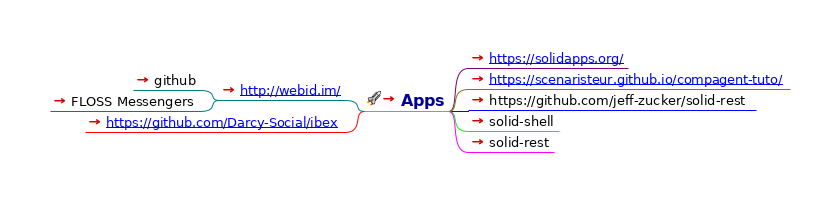
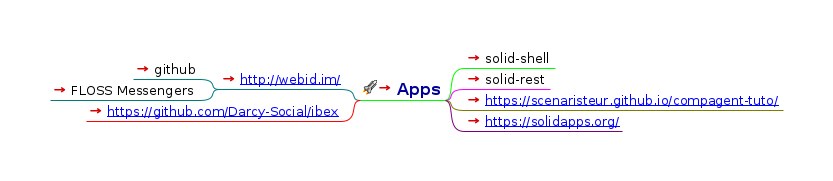
clean up apps

Changed region(s): [[0.0624, 0.2486, 0.9364, 0.7735]]

diff --git a/index.html b/index.html
@@ -23,30 +23,30 @@
                    };
                };
           
-          --></script></head><body><h1>solid</h1><div style="width:96%;  padding:2%;  margin-bottom:10px;  border: 0px;  text-align:center;  vertical-align:center;"><img src="index.html_files/image.png" style="margin-bottom:10px; &#9;border: 0px; &#9;text-align:center; &#9;vertical-align:center;" alt="Imagemap" usemap="#fm_imagemap" /></div><map name="fm_imagemap" id="fm_imagemap"><area shape="rect" href="../tech/index.html" alt="solid" title="solid" coords="420,196,566,239" />
-<area shape="rect" href="apps/index.html" alt="Apps" title="Apps" coords="465,51,534,71" />
-<area shape="rect" href="databrowser/index.html" alt="databrowser" title="databrowser" coords="553,50,661,68" />
-<area shape="rect" href="spec/index.html" alt="spec" title="spec" coords="585,176,647,195" />
-<area shape="rect" href="#FMID_1810859973FM" alt="Tools" title="Tools" coords="470,321,541,341" />
-<area shape="rect" href="https://github.com/solid/data-kitchen" alt="Data Kitchen" title="Data Kitchen" coords="560,299,670,317" />
-<area shape="rect" href="https://github.com/jeff-zucker/data-kitchen" alt="browser FS Fork" title="browser FS Fork" coords="689,289,820,307" />
-<area shape="rect" href="https://github.com/jeff-zucker/data-kitchen/blob/master/README.jz.md#these-things-currenlty-work-using-the-databrowser-in-file-and-app-spaces" alt="browser FS notes" title="browser FS notes" coords="689,310,828,328" />
-<area shape="rect" href="https://github.com/jvilk/BrowserFS" alt="BrowserFS" title="BrowserFS" coords="560,333,654,351" />
-<area shape="rect" href="https://github.com/jeff-zucker/solid-rest/tree/browserFS" alt="solid rest" title="solid rest" coords="673,331,758,349" />
-<area shape="rect" href="https://github.com/fuse-friends/fuse-native" alt="Fuse library" title="Fuse library" coords="560,354,662,372" />
-<area shape="rect" href="#FMID_777477932FM" alt="Links" title="Links" coords="331,207,401,227" />
-<area shape="rect" href="https://webmaps.io/" alt="Made with  using webmaps.io" title="Made with  using webmaps.io" coords="50,140,312,165" />
-<area shape="rect" href="https://solid.mit.edu" alt="MIT" title="MIT" coords="264,168,312,186" />
-<area shape="rect" href="#FMID_1604622862FM" alt="Specs" title="Specs" coords="269,191,312,209" />
-<area shape="rect" href="https://www.w3.org/TR/ldn/" alt="Linked Data Notifications" title="Linked Data Notifications" coords="58,189,250,207" />
-<area shape="rect" href="https://design.inrupt.com/atomic-core/?cat=Core#Colors" alt="Colors" title="Colors" coords="246,222,312,240" />
-<area shape="rect" href="#FMID_1864362129FM" alt="#7C4DFF" title="#7C4DFF" coords="160,212,227,230" />
-<area shape="rect" href="#FMID_1993946970FM" alt="royal lavendar" title="royal lavendar" coords="127,233,227,251" />
-<area shape="rect" href="issues/index.html" alt="issues" title="issues" coords="247,254,312,272" />
-<area shape="rect" href="https://www.w3.org/wiki/Socialwg/2015-03-18-minutes" alt="history" title="history" coords="242,275,312,293" />
+          --></script></head><body><h1>solid</h1><div style="width:96%;  padding:2%;  margin-bottom:10px;  border: 0px;  text-align:center;  vertical-align:center;"><img src="index.html_files/image.png" style="margin-bottom:10px; &#9;border: 0px; &#9;text-align:center; &#9;vertical-align:center;" alt="Imagemap" usemap="#fm_imagemap" /></div><map name="fm_imagemap" id="fm_imagemap"><area shape="rect" href="../tech/index.html" alt="solid" title="solid" coords="424,196,570,239" />
+<area shape="rect" href="apps/index.html" alt="Apps" title="Apps" coords="469,51,538,71" />
+<area shape="rect" href="databrowser/index.html" alt="databrowser" title="databrowser" coords="557,50,665,68" />
+<area shape="rect" href="spec/index.html" alt="spec" title="spec" coords="605,196,667,215" />
+<area shape="rect" href="#FMID_1810859973FM" alt="Tools" title="Tools" coords="474,341,546,361" />
+<area shape="rect" href="https://github.com/solid/data-kitchen" alt="Data Kitchen" title="Data Kitchen" coords="565,319,675,337" />
+<area shape="rect" href="https://github.com/jeff-zucker/data-kitchen" alt="browser FS Fork" title="browser FS Fork" coords="694,309,825,327" />
+<area shape="rect" href="https://github.com/jeff-zucker/data-kitchen/blob/master/README.jz.md#these-things-currenlty-work-using-the-databrowser-in-file-and-app-spaces" alt="browser FS notes" title="browser FS notes" coords="694,330,833,348" />
+<area shape="rect" href="https://github.com/jvilk/BrowserFS" alt="BrowserFS" title="BrowserFS" coords="565,353,659,371" />
+<area shape="rect" href="https://github.com/jeff-zucker/solid-rest/tree/browserFS" alt="solid rest" title="solid rest" coords="678,351,763,369" />
+<area shape="rect" href="https://github.com/fuse-friends/fuse-native" alt="Fuse library" title="Fuse library" coords="565,374,667,392" />
+<area shape="rect" href="#FMID_777477932FM" alt="Links" title="Links" coords="335,207,405,227" />
+<area shape="rect" href="https://webmaps.io/" alt="Made with  using webmaps.io" title="Made with  using webmaps.io" coords="50,140,316,165" />
+<area shape="rect" href="https://solid.mit.edu" alt="MIT" title="MIT" coords="268,168,316,186" />
+<area shape="rect" href="#FMID_1604622862FM" alt="Specs" title="Specs" coords="273,191,316,209" />
+<area shape="rect" href="https://www.w3.org/TR/ldn/" alt="Linked Data Notifications" title="Linked Data Notifications" coords="62,189,254,207" />
+<area shape="rect" href="https://design.inrupt.com/atomic-core/?cat=Core#Colors" alt="Colors" title="Colors" coords="250,222,316,240" />
+<area shape="rect" href="#FMID_1864362129FM" alt="#7C4DFF" title="#7C4DFF" coords="164,212,231,230" />
+<area shape="rect" href="#FMID_1993946970FM" alt="royal lavendar" title="royal lavendar" coords="131,233,231,251" />
+<area shape="rect" href="issues/index.html" alt="issues" title="issues" coords="251,254,316,272" />
+<area shape="rect" href="https://www.w3.org/wiki/Socialwg/2015-03-18-minutes" alt="history" title="history" coords="246,275,316,293" />
 </map>
 
-<div class="node"><img src="index.html_files/hide.png" class="hideshow" alt="hide" onClick="toggle(&quot;N65543&quot;)" id="imgN65543" /><img src="index.html_files/icons/wizard.svg" alt="wizard" /> <a id="FMID_237352286FM" /><div class="nodecontent" style="color:#000000;font-size:150%;"><a href="../tech/index.html">solid</a> <a href="../tech/index.html"><img src="index.html_files/ilink.png" alt="User Link" style="border-width:0" /></a></div><div class="content" id="N65543"><div class="node"><img src="index.html_files/hide.png" class="hideshow" alt="hide" onClick="toggle(&quot;N66445&quot;)" id="imgN66445" /><a id="FMID_1861071781FM" /><div class="nodecontent" style="color:#000099;font-size:100%;font-weight:bold;"><a href="apps/index.html">Apps</a> <a href="apps/index.html"><img src="index.html_files/ilink.png" alt="User Link" style="border-width:0" /></a></div><div class="content" id="N66445"><div class="node"><img src="index.html_files/leaf.png" class="hideshow" alt="leaf" /><a id="FMID_589909741FM" /><div class="nodecontent" style="color:#000000;font-size:83%;"><a href="databrowser/index.html">databrowser</a> <a href="databrowser/index.html"><img src="index.html_files/ilink.png" alt="User Link" style="border-width:0" /></a></div></div></div></div><div class="node"><img src="index.html_files/leaf.png" class="hideshow" alt="leaf" /><a id="FMID_45632273FM" /><div class="nodecontent" style="color:#000000;font-size:92%;font-weight:bold;"><a href="spec/index.html">spec</a> <a href="spec/index.html"><img src="index.html_files/ilink.png" alt="User Link" style="border-width:0" /></a></div></div><div class="node"><img src="index.html_files/hide.png" class="hideshow" alt="hide" onClick="toggle(&quot;N66560&quot;)" id="imgN66560" /><img src="index.html_files/icons/executable.svg" alt="executable" /> <a id="FMID_1810859973FM" /><div class="nodecontent" style="color:#666600;font-size:100%;font-weight:bold;">Tools</div><div class="content" id="N66560"><div class="node"><img src="index.html_files/hide.png" class="hideshow" alt="hide" onClick="toggle(&quot;N66603&quot;)" id="imgN66603" /><a id="FMID_464490085FM" /><div class="nodecontent" style="color:#000000;font-size:83%;"><a href="https://github.com/solid/data-kitchen">Data Kitchen</a> <a href="https://github.com/solid/data-kitchen"><img src="index.html_files/ilink.png" alt="User Link" style="border-width:0" /></a></div><div class="content" id="N66603"><div class="node"><img src="index.html_files/leaf.png" class="hideshow" alt="leaf" /><a id="FMID_1249692100FM" /><div class="nodecontent" style="color:#000000;font-size:83%;"><a href="https://github.com/jeff-zucker/data-kitchen">browser FS Fork</a> <a href="https://github.com/jeff-zucker/data-kitchen"><img src="index.html_files/ilink.png" alt="User Link" style="border-width:0" /></a></div></div><div class="node"><img src="index.html_files/leaf.png" class="hideshow" alt="leaf" /><a id="FMID_159496431FM" /><div class="nodecontent" style="color:#000000;font-size:83%;"><a href="https://github.com/jeff-zucker/data-kitchen/blob/master/README.jz.md#these-things-currenlty-work-using-the-databrowser-in-file-and-app-spaces">browser FS notes</a> <a href="https://github.com/jeff-zucker/data-kitchen/blob/master/README.jz.md#these-things-currenlty-work-using-the-databrowser-in-file-and-app-spaces"><img src="index.html_files/ilink.png" alt="User Link" style="border-width:0" /></a></div></div></div></div><div class="node"><img src="index.html_files/hide.png" class="hideshow" alt="hide" onClick="toggle(&quot;N66714&quot;)" id="imgN66714" /><a id="FMID_254470917FM" /><div class="nodecontent" style="color:#000000;font-size:83%;"><a href="https://github.com/jvilk/BrowserFS">BrowserFS</a> <a href="https://github.com/jvilk/BrowserFS"><img src="index.html_files/ilink.png" alt="User Link" style="border-width:0" /></a></div><div class="content" id="N66714"><div class="node"><img src="index.html_files/leaf.png" class="hideshow" alt="leaf" /><a id="FMID_1269514055FM" /><div class="nodecontent" style="color:#000000;font-size:83%;"><a href="https://github.com/jeff-zucker/solid-rest/tree/browserFS">solid rest</a> <a href="https://github.com/jeff-zucker/solid-rest/tree/browserFS"><img src="index.html_files/ilink.png" alt="User Link" style="border-width:0" /></a></div></div></div></div><div class="node"><img src="index.html_files/leaf.png" class="hideshow" alt="leaf" /><a id="FMID_845285837FM" /><div class="nodecontent" style="color:#000000;font-size:83%;"><a href="https://github.com/fuse-friends/fuse-native">Fuse library</a> <a href="https://github.com/fuse-friends/fuse-native"><img src="index.html_files/ilink.png" alt="User Link" style="border-width:0" /></a></div></div></div></div><div class="node"><img src="index.html_files/hide.png" class="hideshow" alt="hide" onClick="toggle(&quot;N66826&quot;)" id="imgN66826" /><img src="index.html_files/icons/attach.svg" alt="attach" /> <a id="FMID_777477932FM" /><div class="nodecontent" style="color:#660000;font-size:100%;font-weight:bold;">Links</div><div class="content" id="N66826"><div class="node"><img src="index.html_files/leaf.png" class="hideshow" alt="leaf" /><a id="FMID_1974475433FM" /><div class="nodecontent" style="color:#000099;font-size:83%;font-weight:bold;"><a href="https://webmaps.io/">
+<div class="node"><img src="index.html_files/hide.png" class="hideshow" alt="hide" onClick="toggle(&quot;N65543&quot;)" id="imgN65543" /><img src="index.html_files/icons/wizard.svg" alt="wizard" /> <a id="FMID_237352286FM" /><div class="nodecontent" style="color:#000000;font-size:150%;"><a href="../tech/index.html">solid</a> <a href="../tech/index.html"><img src="index.html_files/ilink.png" alt="User Link" style="border-width:0" /></a></div><div class="content" id="N65543"><div class="node"><img src="index.html_files/hide.png" class="hideshow" alt="hide" onClick="toggle(&quot;N66445&quot;)" id="imgN66445" /><a id="FMID_1861071781FM" /><div class="nodecontent" style="color:#000099;font-size:100%;font-weight:bold;"><a href="apps/index.html">Apps</a> <a href="apps/index.html"><img src="index.html_files/ilink.png" alt="User Link" style="border-width:0" /></a></div><div class="content" id="N66445"><div class="node"><img src="index.html_files/leaf.png" class="hideshow" alt="leaf" /><a id="FMID_589909741FM" /><div class="nodecontent" style="color:#000000;font-size:83%;"><a href="databrowser/index.html">databrowser</a> <a href="databrowser/index.html"><img src="index.html_files/ilink.png" alt="User Link" style="border-width:0" /></a></div></div></div></div><div class="node"><img src="index.html_files/leaf.png" class="hideshow" alt="leaf" /><a id="FMID_45632273FM" /><div class="nodecontent" style="color:#000000;font-size:92%;font-weight:bold;"><a href="spec/index.html">spec</a> <a href="spec/index.html"><img src="index.html_files/ilink.png" alt="User Link" style="border-width:0" /></a></div></div><div class="node"><img src="index.html_files/hide.png" class="hideshow" alt="hide" onClick="toggle(&quot;N66562&quot;)" id="imgN66562" /><img src="index.html_files/icons/executable.svg" alt="executable" /> <a id="FMID_1810859973FM" /><div class="nodecontent" style="color:#666600;font-size:100%;font-weight:bold;">Tools</div><div class="content" id="N66562"><div class="node"><img src="index.html_files/hide.png" class="hideshow" alt="hide" onClick="toggle(&quot;N66605&quot;)" id="imgN66605" /><a id="FMID_464490085FM" /><div class="nodecontent" style="color:#000000;font-size:83%;"><a href="https://github.com/solid/data-kitchen">Data Kitchen</a> <a href="https://github.com/solid/data-kitchen"><img src="index.html_files/ilink.png" alt="User Link" style="border-width:0" /></a></div><div class="content" id="N66605"><div class="node"><img src="index.html_files/leaf.png" class="hideshow" alt="leaf" /><a id="FMID_1249692100FM" /><div class="nodecontent" style="color:#000000;font-size:83%;"><a href="https://github.com/jeff-zucker/data-kitchen">browser FS Fork</a> <a href="https://github.com/jeff-zucker/data-kitchen"><img src="index.html_files/ilink.png" alt="User Link" style="border-width:0" /></a></div></div><div class="node"><img src="index.html_files/leaf.png" class="hideshow" alt="leaf" /><a id="FMID_159496431FM" /><div class="nodecontent" style="color:#000000;font-size:83%;"><a href="https://github.com/jeff-zucker/data-kitchen/blob/master/README.jz.md#these-things-currenlty-work-using-the-databrowser-in-file-and-app-spaces">browser FS notes</a> <a href="https://github.com/jeff-zucker/data-kitchen/blob/master/README.jz.md#these-things-currenlty-work-using-the-databrowser-in-file-and-app-spaces"><img src="index.html_files/ilink.png" alt="User Link" style="border-width:0" /></a></div></div></div></div><div class="node"><img src="index.html_files/hide.png" class="hideshow" alt="hide" onClick="toggle(&quot;N66716&quot;)" id="imgN66716" /><a id="FMID_254470917FM" /><div class="nodecontent" style="color:#000000;font-size:83%;"><a href="https://github.com/jvilk/BrowserFS">BrowserFS</a> <a href="https://github.com/jvilk/BrowserFS"><img src="index.html_files/ilink.png" alt="User Link" style="border-width:0" /></a></div><div class="content" id="N66716"><div class="node"><img src="index.html_files/leaf.png" class="hideshow" alt="leaf" /><a id="FMID_1269514055FM" /><div class="nodecontent" style="color:#000000;font-size:83%;"><a href="https://github.com/jeff-zucker/solid-rest/tree/browserFS">solid rest</a> <a href="https://github.com/jeff-zucker/solid-rest/tree/browserFS"><img src="index.html_files/ilink.png" alt="User Link" style="border-width:0" /></a></div></div></div></div><div class="node"><img src="index.html_files/leaf.png" class="hideshow" alt="leaf" /><a id="FMID_845285837FM" /><div class="nodecontent" style="color:#000000;font-size:83%;"><a href="https://github.com/fuse-friends/fuse-native">Fuse library</a> <a href="https://github.com/fuse-friends/fuse-native"><img src="index.html_files/ilink.png" alt="User Link" style="border-width:0" /></a></div></div></div></div><div class="node"><img src="index.html_files/hide.png" class="hideshow" alt="hide" onClick="toggle(&quot;N66828&quot;)" id="imgN66828" /><img src="index.html_files/icons/attach.svg" alt="attach" /> <a id="FMID_777477932FM" /><div class="nodecontent" style="color:#660000;font-size:100%;font-weight:bold;">Links</div><div class="content" id="N66828"><div class="node"><img src="index.html_files/leaf.png" class="hideshow" alt="leaf" /><a id="FMID_1974475433FM" /><div class="nodecontent" style="color:#000099;font-size:83%;font-weight:bold;"><a href="https://webmaps.io/">
     Made with <img class="emoji" alt="heart" height="20" width="20" src="https://github.githubassets.com/images/icons/emoji/unicode/2764.png" style="border-top-style: none; border-right-style: none; border-bottom-style: none; border-left-style: none" /> using webmaps.io
-  </a> <a href="https://webmaps.io/"><img src="index.html_files/ilink.png" alt="User Link" style="border-width:0" /></a></div></div><div class="node"><img src="index.html_files/leaf.png" class="hideshow" alt="leaf" /><a id="FMID_671925292FM" /><div class="nodecontent" style="color:#000000;font-size:83%;"><a href="https://solid.mit.edu">MIT</a> <a href="https://solid.mit.edu"><img src="index.html_files/ilink.png" alt="User Link" style="border-width:0" /></a></div></div><div class="node"><img src="index.html_files/hide.png" class="hideshow" alt="hide" onClick="toggle(&quot;N66961&quot;)" id="imgN66961" /><a id="FMID_1604622862FM" /><div class="nodecontent" style="color:#000000;font-size:83%;">Specs</div><div class="content" id="N66961"><div class="node"><img src="index.html_files/leaf.png" class="hideshow" alt="leaf" /><a id="FMID_1990139043FM" /><div class="nodecontent" style="color:#000000;font-size:83%;"><a href="https://www.w3.org/TR/ldn/">Linked Data Notifications</a> <a href="https://www.w3.org/TR/ldn/"><img src="index.html_files/ilink.png" alt="User Link" style="border-width:0" /></a></div></div></div></div><div class="node"><img src="index.html_files/hide.png" class="hideshow" alt="hide" onClick="toggle(&quot;N67034&quot;)" id="imgN67034" /><a id="FMID_960031878FM" /><div class="nodecontent" style="color:#000000;font-size:83%;"><a href="https://design.inrupt.com/atomic-core/?cat=Core#Colors">Colors</a> <a href="https://design.inrupt.com/atomic-core/?cat=Core#Colors"><img src="index.html_files/ilink.png" alt="User Link" style="border-width:0" /></a></div><div class="content" id="N67034"><div class="node"><img src="index.html_files/leaf.png" class="hideshow" alt="leaf" /><a id="FMID_1864362129FM" /><div class="nodecontent" style="color:#000000;font-size:83%;">#7C4DFF</div></div><div class="node"><img src="index.html_files/leaf.png" class="hideshow" alt="leaf" /><a id="FMID_1993946970FM" /><div class="nodecontent" style="color:#000000;font-size:83%;">royal lavendar</div></div></div></div><div class="node"><img src="index.html_files/leaf.png" class="hideshow" alt="leaf" /><a id="FMID_1662681886FM" /><div class="nodecontent" style="color:#000000;font-size:83%;"><a href="issues/index.html">issues</a> <a href="issues/index.html"><img src="index.html_files/ilink.png" alt="User Link" style="border-width:0" /></a></div></div><div class="node"><img src="index.html_files/leaf.png" class="hideshow" alt="leaf" /><a id="FMID_1693475953FM" /><div class="nodecontent" style="color:#000000;font-size:83%;"><a href="https://www.w3.org/wiki/Socialwg/2015-03-18-minutes">history</a> <a href="https://www.w3.org/wiki/Socialwg/2015-03-18-minutes"><img src="index.html_files/ilink.png" alt="User Link" style="border-width:0" /></a></div></div></div></div></div></div>
+  </a> <a href="https://webmaps.io/"><img src="index.html_files/ilink.png" alt="User Link" style="border-width:0" /></a></div></div><div class="node"><img src="index.html_files/leaf.png" class="hideshow" alt="leaf" /><a id="FMID_671925292FM" /><div class="nodecontent" style="color:#000000;font-size:83%;"><a href="https://solid.mit.edu">MIT</a> <a href="https://solid.mit.edu"><img src="index.html_files/ilink.png" alt="User Link" style="border-width:0" /></a></div></div><div class="node"><img src="index.html_files/hide.png" class="hideshow" alt="hide" onClick="toggle(&quot;N66963&quot;)" id="imgN66963" /><a id="FMID_1604622862FM" /><div class="nodecontent" style="color:#000000;font-size:83%;">Specs</div><div class="content" id="N66963"><div class="node"><img src="index.html_files/leaf.png" class="hideshow" alt="leaf" /><a id="FMID_1990139043FM" /><div class="nodecontent" style="color:#000000;font-size:83%;"><a href="https://www.w3.org/TR/ldn/">Linked Data Notifications</a> <a href="https://www.w3.org/TR/ldn/"><img src="index.html_files/ilink.png" alt="User Link" style="border-width:0" /></a></div></div></div></div><div class="node"><img src="index.html_files/hide.png" class="hideshow" alt="hide" onClick="toggle(&quot;N67036&quot;)" id="imgN67036" /><a id="FMID_960031878FM" /><div class="nodecontent" style="color:#000000;font-size:83%;"><a href="https://design.inrupt.com/atomic-core/?cat=Core#Colors">Colors</a> <a href="https://design.inrupt.com/atomic-core/?cat=Core#Colors"><img src="index.html_files/ilink.png" alt="User Link" style="border-width:0" /></a></div><div class="content" id="N67036"><div class="node"><img src="index.html_files/leaf.png" class="hideshow" alt="leaf" /><a id="FMID_1864362129FM" /><div class="nodecontent" style="color:#000000;font-size:83%;">#7C4DFF</div></div><div class="node"><img src="index.html_files/leaf.png" class="hideshow" alt="leaf" /><a id="FMID_1993946970FM" /><div class="nodecontent" style="color:#000000;font-size:83%;">royal lavendar</div></div></div></div><div class="node"><img src="index.html_files/leaf.png" class="hideshow" alt="leaf" /><a id="FMID_1662681886FM" /><div class="nodecontent" style="color:#000000;font-size:83%;"><a href="issues/index.html">issues</a> <a href="issues/index.html"><img src="index.html_files/ilink.png" alt="User Link" style="border-width:0" /></a></div></div><div class="node"><img src="index.html_files/leaf.png" class="hideshow" alt="leaf" /><a id="FMID_1693475953FM" /><div class="nodecontent" style="color:#000000;font-size:83%;"><a href="https://www.w3.org/wiki/Socialwg/2015-03-18-minutes">history</a> <a href="https://www.w3.org/wiki/Socialwg/2015-03-18-minutes"><img src="index.html_files/ilink.png" alt="User Link" style="border-width:0" /></a></div></div></div></div></div></div>
 </body></html>

diff --git a/apps/index.html b/apps/index.html
@@ -1,5 +1,5 @@
 <?xml version="1.0" encoding="UTF-8"?><!DOCTYPE html PUBLIC "-//W3C//DTD XHTML 1.1//EN" "http://www.w3.org/TR/xhtml11/DTD/xhtml11.dtd">
-<html xmlns="http://www.w3.org/1999/xhtml"><meta http-equiv="Content-Type" content="text/html; charset=UTF-8" /><!--This file has been created with freeplane2html.xsl--><head><title>Apps</title><link rel="stylesheet" href="index.html_files/freeplane2html.css" type="text/css" /><meta name="generator" content="Freeplane-XSL Stylesheet (see: http://freeplane-xsl.dev.slash-me.net/ for details)" /><script type="text/javascript" src="index.html_files/freeplane2html.js"> 
+<html xmlns="http://www.w3.org/1999/xhtml"><meta http-equiv="Content-Type" content="text/html; charset=UTF-8" /><!--This file has been created with processhtml.sh--><head><title>Apps</title><link rel="stylesheet" href="index.html_files/freeplane2html.css" type="text/css" /><meta name="generator" content="Freeplane-XSL Stylesheet (see: http://freeplane-xsl.dev.slash-me.net/ for details)" /><script type="text/javascript" src="index.html_files/freeplane2html.js"> 
 	</script><script type="text/javascript"><!--
           
                function toggle(id)
@@ -23,25 +23,24 @@
                    };
                };
           
-          --></script></head><body><h1>Apps</h1><div style="width:96%;  padding:2%;  margin-bottom:10px;  border: 0px;  text-align:center;  vertical-align:center;"><img src="index.html_files/image.png" style="margin-bottom:10px; &#9;border: 0px; &#9;text-align:center; &#9;vertical-align:center;" alt="Imagemap" usemap="#fm_imagemap" /></div><map name="fm_imagemap" id="fm_imagemap"><area shape="rect" href="#FMID_527312312FM" alt="Apps" title="Apps" coords="364,91,449,111" />
-<area shape="rect" href="#FMID_1071946324FM" alt="https://solidapps.org/" title="https://solidapps.org/" coords="468,50,628,68" />
-<area shape="rect" href="#FMID_1285619201FM" alt="http://webid.im/" title="http://webid.im/" coords="219,82,345,100" />
-<area shape="rect" href="#FMID_1449615970FM" alt="github" title="github" coords="133,72,200,90" />
-<area shape="rect" href="#FMID_1381129542FM" alt="FLOSS Messengers" title="FLOSS Messengers" coords="50,93,200,111" />
-<area shape="rect" href="#FMID_1009568646FM" alt="https://scenaristeur.github.io/compagent ..." title="https://scenaristeur.github.io/compagent ..." coords="468,71,790,89" />
-<area shape="rect" href="#FMID_1493791154FM" alt="https://github.com/Darcy-Social/ibex" title="https://github.com/Darcy-Social/ibex" coords="85,114,345,132" />
-<area shape="rect" href="#FMID_1316215688FM" alt="https://github.com/jeff-zucker/solid-res ..." title="https://github.com/jeff-zucker/solid-res ..." coords="468,92,756,110" />
-<area shape="rect" href="#FMID_76390485FM" alt="solid-shell" title="solid-shell" coords="468,113,559,131" />
-<area shape="rect" href="#FMID_849083085FM" alt="solid-rest" title="solid-rest" coords="468,134,554,152" />
+          --></script></head><body><h1>Apps</h1><div style="width:96%;  padding:2%;  margin-bottom:10px;  border: 0px;  text-align:center;  vertical-align:center;"><img src="index.html_files/image.png" style="margin-bottom:10px; &#9;border: 0px; &#9;text-align:center; &#9;vertical-align:center;" alt="Imagemap" usemap="#fm_imagemap" /></div><map name="fm_imagemap" id="fm_imagemap"><area shape="rect" href="../index.html" alt="Apps" title="Apps" coords="360,80,445,100" />
+<area shape="rect" href="http://webid.im/" alt="http://webid.im/" title="http://webid.im/" coords="219,71,341,89" />
+<area shape="rect" href="https://github.com/melvincarvalho/webid.im" alt="github" title="github" coords="133,61,200,79" />
+<area shape="rect" href="https://github.com/melvincarvalho/webid.im/wiki/FLOSS-Messengers" alt="FLOSS Messengers" title="FLOSS Messengers" coords="50,82,200,100" />
+<area shape="rect" href="https://github.com/Darcy-Social/ibex" alt="https://github.com/Darcy-Social/ibex" title="https://github.com/Darcy-Social/ibex" coords="86,103,341,121" />
+<area shape="rect" href="solid-shell.html" alt="solid-shell" title="solid-shell" coords="464,50,555,68" />
+<area shape="rect" href="https://github.com/jeff-zucker/solid-rest" alt="solid-rest" title="solid-rest" coords="464,71,550,89" />
+<area shape="rect" href="https://scenaristeur.github.io/compagent-tuto/" alt="https://scenaristeur.github.io/compagent ..." title="https://scenaristeur.github.io/compagent ..." coords="464,92,783,110" />
+<area shape="rect" href="https://solidapps.org/" alt="https://solidapps.org/" title="https://solidapps.org/" coords="464,113,622,131" />
 </map>
 
-<div class="node"><img src="index.html_files/hide.png" class="hideshow" alt="hide" onClick="toggle(&quot;N65543&quot;)" id="imgN65543" /><img src="index.html_files/icons/launch.png" alt="launch" /> <a id="FMID_527312312FM" /><div class="nodecontent" style="color:#000099;font-size:100%;font-weight:bold;"><a href="../index.mm">Apps</a> <a href="../index.mm"><img src="index.html_files/ilink.png" alt="User Link" style="border-width:0" /></a></div><div class="content" id="N65543"><div class="node"><img src="index.html_files/leaf.png" class="hideshow" alt="leaf" /><a id="FMID_1071946324FM" /><div class="nodecontent" style="color:#000000;font-size:83%;"><a href="https://solidapps.org/">
-    <a http-equiv="content-type" content="text/html; charset=utf-8" href="https://solidapps.org/">https://solidapps.org/</a>
-  </a> <a href="https://solidapps.org/"><img src="index.html_files/ilink.png" alt="User Link" style="border-width:0" /></a></div></div><div class="node"><img src="index.html_files/hide.png" class="hideshow" alt="hide" onClick="toggle(&quot;N66503&quot;)" id="imgN66503" /><a id="FMID_1285619201FM" /><div class="nodecontent" style="color:#000000;font-size:83%;"><a href="http://webid.im/">
+<div class="node"><img src="index.html_files/hide.png" class="hideshow" alt="hide" onClick="toggle(&quot;N65543&quot;)" id="imgN65543" /><img src="index.html_files/icons/launch.svg" alt="launch" /> <a id="FMID_527312312FM" /><div class="nodecontent" style="color:#000099;font-size:100%;font-weight:bold;"><a href="../index.html">Apps</a> <a href="../index.html"><img src="index.html_files/ilink.png" alt="User Link" style="border-width:0" /></a></div><div class="content" id="N65543"><div class="node"><img src="index.html_files/hide.png" class="hideshow" alt="hide" onClick="toggle(&quot;N66447&quot;)" id="imgN66447" /><a id="FMID_1285619201FM" /><div class="nodecontent" style="color:#000000;font-size:83%;"><a href="http://webid.im/">
     <a http-equiv="content-type" content="text/html; charset=utf-8" href="http://webid.im/">http://webid.im/</a>
-  </a> <a href="http://webid.im/"><img src="index.html_files/ilink.png" alt="User Link" style="border-width:0" /></a></div><div class="content" id="N66503"><div class="node"><img src="index.html_files/leaf.png" class="hideshow" alt="leaf" /><a id="FMID_1449615970FM" /><div class="nodecontent" style="color:#000000;font-size:83%;"><a href="https://github.com/melvincarvalho/webid.im">github</a> <a href="https://github.com/melvincarvalho/webid.im"><img src="index.html_files/ilink.png" alt="User Link" style="border-width:0" /></a></div></div><div class="node"><img src="index.html_files/leaf.png" class="hideshow" alt="leaf" /><a id="FMID_1381129542FM" /><div class="nodecontent" style="color:#000000;font-size:83%;"><a href="https://github.com/melvincarvalho/webid.im/wiki/FLOSS-Messengers">FLOSS Messengers</a> <a href="https://github.com/melvincarvalho/webid.im/wiki/FLOSS-Messengers"><img src="index.html_files/ilink.png" alt="User Link" style="border-width:0" /></a></div></div></div></div><div class="node"><img src="index.html_files/leaf.png" class="hideshow" alt="leaf" /><a id="FMID_1009568646FM" /><div class="nodecontent" style="color:#000000;font-size:83%;"><a href="https://scenaristeur.github.io/compagent-tuto/">
-    <a http-equiv="content-type" content="text/html; charset=utf-8" href="https://scenaristeur.github.io/compagent-tuto/">https://scenaristeur.github.io/compagent-tuto/</a>
-  </a> <a href="https://scenaristeur.github.io/compagent-tuto/"><img src="index.html_files/ilink.png" alt="User Link" style="border-width:0" /></a></div></div><div class="node"><img src="index.html_files/leaf.png" class="hideshow" alt="leaf" /><a id="FMID_1493791154FM" /><div class="nodecontent" style="color:#000000;font-size:83%;"><a href="https://github.com/Darcy-Social/ibex">
+  </a> <a href="http://webid.im/"><img src="index.html_files/ilink.png" alt="User Link" style="border-width:0" /></a></div><div class="content" id="N66447"><div class="node"><img src="index.html_files/leaf.png" class="hideshow" alt="leaf" /><a id="FMID_1449615970FM" /><div class="nodecontent" style="color:#000000;font-size:83%;"><a href="https://github.com/melvincarvalho/webid.im">github</a> <a href="https://github.com/melvincarvalho/webid.im"><img src="index.html_files/ilink.png" alt="User Link" style="border-width:0" /></a></div></div><div class="node"><img src="index.html_files/leaf.png" class="hideshow" alt="leaf" /><a id="FMID_1381129542FM" /><div class="nodecontent" style="color:#000000;font-size:83%;"><a href="https://github.com/melvincarvalho/webid.im/wiki/FLOSS-Messengers">FLOSS Messengers</a> <a href="https://github.com/melvincarvalho/webid.im/wiki/FLOSS-Messengers"><img src="index.html_files/ilink.png" alt="User Link" style="border-width:0" /></a></div></div></div></div><div class="node"><img src="index.html_files/leaf.png" class="hideshow" alt="leaf" /><a id="FMID_1493791154FM" /><div class="nodecontent" style="color:#000000;font-size:83%;"><a href="https://github.com/Darcy-Social/ibex">
     <a http-equiv="content-type" content="text/html; charset=utf-8" href="https://github.com/Darcy-Social/ibex">https://github.com/Darcy-Social/ibex</a>
-  </a> <a href="https://github.com/Darcy-Social/ibex"><img src="index.html_files/ilink.png" alt="User Link" style="border-width:0" /></a></div></div><div class="node"><img src="index.html_files/leaf.png" class="hideshow" alt="leaf" /><a id="FMID_1316215688FM" /><div class="nodecontent" style="color:#000000;font-size:83%;"><a href="https://github.com/jeff-zucker/solid-rest">https://github.com/jeff-zucker/solid-rest</a> <a href="https://github.com/jeff-zucker/solid-rest"><img src="index.html_files/ilink.png" alt="User Link" style="border-width:0" /></a></div></div><div class="node"><img src="index.html_files/leaf.png" class="hideshow" alt="leaf" /><a id="FMID_76390485FM" /><div class="nodecontent" style="color:#000000;font-size:83%;"><a href="solid-shell.mm">solid-shell</a> <a href="solid-shell.mm"><img src="index.html_files/ilink.png" alt="User Link" style="border-width:0" /></a></div></div><div class="node"><img src="index.html_files/leaf.png" class="hideshow" alt="leaf" /><a id="FMID_849083085FM" /><div class="nodecontent" style="color:#000000;font-size:83%;"><a href="https://github.com/jeff-zucker/solid-rest">solid-rest</a> <a href="https://github.com/jeff-zucker/solid-rest"><img src="index.html_files/ilink.png" alt="User Link" style="border-width:0" /></a></div></div></div></div>
+  </a> <a href="https://github.com/Darcy-Social/ibex"><img src="index.html_files/ilink.png" alt="User Link" style="border-width:0" /></a></div></div><div class="node"><img src="index.html_files/leaf.png" class="hideshow" alt="leaf" /><a id="FMID_76390485FM" /><div class="nodecontent" style="color:#000000;font-size:83%;"><a href="solid-shell.html">solid-shell</a> <a href="solid-shell.html"><img src="index.html_files/ilink.png" alt="User Link" style="border-width:0" /></a></div></div><div class="node"><img src="index.html_files/leaf.png" class="hideshow" alt="leaf" /><a id="FMID_849083085FM" /><div class="nodecontent" style="color:#000000;font-size:83%;"><a href="https://github.com/jeff-zucker/solid-rest">solid-rest</a> <a href="https://github.com/jeff-zucker/solid-rest"><img src="index.html_files/ilink.png" alt="User Link" style="border-width:0" /></a></div></div><div class="node"><img src="index.html_files/leaf.png" class="hideshow" alt="leaf" /><a id="FMID_1009568646FM" /><div class="nodecontent" style="color:#000000;font-size:83%;"><a href="https://scenaristeur.github.io/compagent-tuto/">
+    <a http-equiv="content-type" content="text/html; charset=utf-8" href="https://scenaristeur.github.io/compagent-tuto/">https://scenaristeur.github.io/compagent-tuto/</a>
+  </a> <a href="https://scenaristeur.github.io/compagent-tuto/"><img src="index.html_files/ilink.png" alt="User Link" style="border-width:0" /></a></div></div><div class="node"><img src="index.html_files/leaf.png" class="hideshow" alt="leaf" /><a id="FMID_1071946324FM" /><div class="nodecontent" style="color:#000000;font-size:83%;"><a href="https://solidapps.org/">
+    <a http-equiv="content-type" content="text/html; charset=utf-8" href="https://solidapps.org/">https://solidapps.org/</a>
+  </a> <a href="https://solidapps.org/"><img src="index.html_files/ilink.png" alt="User Link" style="border-width:0" /></a></div></div></div></div>
 </body></html>

diff --git a/apps/index.ppt.html b/apps/index.ppt.html
@@ -9,10 +9,10 @@
         <meta name="apple-mobile-web-app-capable" content="yes">
         <meta name="apple-mobile-web-app-status-bar-style" content="black-translucent">
         <meta name="viewport" content="width=device-width, initial-scale=1.0, maximum-scale=1.0, user-scalable=no">
-        <link rel="stylesheet" href="https://cdn.rawgit.com/hakimel/reveal.js/3.3.0//css/reveal.css">
-        <link rel="stylesheet" id="theme" href="https://cdn.rawgit.com/hakimel/reveal.js/3.3.0//css/theme/sky.css">
+        <link rel="stylesheet" href="https://solidpayorg.github.io/reveal.js/css/reveal.css">
+        <link rel="stylesheet" id="theme" href="https://solidpayorg.github.io/reveal.js/css/theme/solid.css">
         <!--For syntax highlighting-->
-        <link rel="stylesheet" href="https://cdn.rawgit.com/hakimel/reveal.js/3.3.0//lib/css/zenburn.css">
+        <link rel="stylesheet" href="https://solidpayorg.github.io/reveal.js/lib/css/zenburn.css">
         <style type="text/css">
             a.connector, a.subsection {margin-left: 1ex; font-size: smaller}
             .illustrations a {float:left; margin: 1ex 5px; max-width:100%}
@@ -37,11 +37,11 @@
         </style>
         <!--If the query includes 'print-pdf', use the PDF print sheet. works in Chrome, maybe not other browsers-->
         <script type="text/javascript">
-        document.write( '<link rel="stylesheet" href="https://cdn.rawgit.com/hakimel/reveal.js/3.3.0//css/print/' + ( window.location.search.match( /print-pdf/gi ) ? 'pdf' : 'paper' ) + '.css" type="text/css" media="print" />' );
+        document.write( '<link rel="stylesheet" href="https://solidpayorg.github.io/reveal.js/css/print/' + ( window.location.search.match( /print-pdf/gi ) ? 'pdf' : 'paper' ) + '.css" type="text/css" media="print" />' );
         </script>
         <!--
             [if lt IE 9]>
-            <script src="https://cdn.rawgit.com/hakimel/reveal.js/3.3.0//lib/js/html5shiv.js"></script>
+            <script src="https://solidpayorg.github.io/reveal.js/lib/js/html5shiv.js"></script>
             <![endif]
         -->
         <!--placeholder for custom header items (typically scripts or stylesheets)-->
@@ -54,25 +54,22 @@
                     <h2>Apps</h2>
                     <ul>
                         <li>
-                            <a href="https://solidapps.org/" class="link external"><a http-equiv="content-type" content="text/html; charset=utf-8" href="https://solidapps.org/">https://solidapps.org/</a></a>
-                        </li>
-                        <li>
                             http://webid.im/<a href="#/ID_1285619201" class="link subsection"> &#8628;</a>
                         </li>
                         <li>
-                            <a href="https://scenaristeur.github.io/compagent-tuto/" class="link external"><a http-equiv="content-type" content="text/html; charset=utf-8" href="https://scenaristeur.github.io/compagent-tuto/">https://scenaristeur.github.io/compagent-tuto/</a></a>
-                        </li>
-                        <li>
                             <a href="https://github.com/Darcy-Social/ibex" class="link external"><a http-equiv="content-type" content="text/html; charset=utf-8" href="https://github.com/Darcy-Social/ibex">https://github.com/Darcy-Social/ibex</a></a>
-                        </li>
-                        <li>
-                            <a href="https://github.com/jeff-zucker/solid-rest" class="link external">https://github.com/jeff-zucker/solid-rest</a>
                         </li>
                         <li>
                             <a href="solid-shell.mm" class="link external">solid-shell</a>
                         </li>
                         <li>
                             <a href="https://github.com/jeff-zucker/solid-rest" class="link external">solid-rest</a>
+                        </li>
+                        <li>
+                            <a href="https://scenaristeur.github.io/compagent-tuto/" class="link external"><a http-equiv="content-type" content="text/html; charset=utf-8" href="https://scenaristeur.github.io/compagent-tuto/">https://scenaristeur.github.io/compagent-tuto/</a></a>
+                        </li>
+                        <li>
+                            <a href="https://solidapps.org/" class="link external"><a http-equiv="content-type" content="text/html; charset=utf-8" href="https://solidapps.org/">https://solidapps.org/</a></a>
                         </li>
                     </ul>
                 </section>
@@ -100,7 +97,7 @@
         <footer class="info">
             Apps | <a href="http://berteh.github.io/mindslide/">Mindslide</a> v 0.5 |  <a href="http://freeplane.sourceforge.net/">Freeplane</a> map vfreeplane 1.7.0
         </footer>
-        <script src="https://cdn.rawgit.com/hakimel/reveal.js/3.3.0//lib/js/head.min.js"></script><script src="https://cdn.rawgit.com/hakimel/reveal.js/3.3.0//js/reveal.js"></script><script>
+        <script src="https://solidpayorg.github.io/reveal.js/lib/js/head.min.js"></script><script src="https://solidpayorg.github.io/reveal.js/js/reveal.js"></script><script>
 
 	//run reveal.js
 	// Full list of configuration options available here:
@@ -136,19 +133,19 @@
 		parallaxBackgroundHorizontal: null,
 		parallaxBackgroundVertical: null,
 
-		theme: Reveal.getQueryHash().theme || 'sky',
+		theme: Reveal.getQueryHash().theme || 'solid',
 		transition: Reveal.getQueryHash().transition || 'cube',
 
 		
         // Optional libraries used to extend on reveal.js - see https://github.com/hakimel/reveal.js#dependencies
         dependencies: [
-          { src:'https://cdn.rawgit.com/hakimel/reveal.js/3.3.0//lib/js/classList.js', condition: function() { return !document.body.classList; } },
-          { src:'https://cdn.rawgit.com/hakimel/reveal.js/3.3.0//plugin/highlight/highlight.js', async: true, callback: function() { hljs.initHighlightingOnLoad(); } },
-          { src:'https://cdn.rawgit.com/hakimel/reveal.js/3.3.0//plugin/zoom-js/zoom.js', async: true, condition: function() { return !!document.body.classList; } },
-          { src:'https://cdn.rawgit.com/hakimel/reveal.js/3.3.0//plugin/notes/notes.js', async: true, condition: function() { return !!document.body.classList; } }
-          //{ src:'https://cdn.rawgit.com/hakimel/reveal.js/3.3.0//plugin/markdown/marked.js', condition: function() { return !!document.querySelector('[data-markdown]' ); } },
-          //{ src:'https://cdn.rawgit.com/hakimel/reveal.js/3.3.0//plugin/markdown/markdown.js', condition: function() { return !!document.querySelector('[data-markdown]' ); } },
-		  //{ src:'https://cdn.rawgit.com/hakimel/reveal.js/3.3.0//plugin/math/math.js', async: true }
+          { src:'https://solidpayorg.github.io/reveal.js/lib/js/classList.js', condition: function() { return !document.body.classList; } },
+          { src:'https://solidpayorg.github.io/reveal.js/plugin/highlight/highlight.js', async: true, callback: function() { hljs.initHighlightingOnLoad(); } },
+          { src:'https://solidpayorg.github.io/reveal.js/plugin/zoom-js/zoom.js', async: true, condition: function() { return !!document.body.classList; } },
+          { src:'https://solidpayorg.github.io/reveal.js/plugin/notes/notes.js', async: true, condition: function() { return !!document.body.classList; } }
+          //{ src:'https://solidpayorg.github.io/reveal.js/plugin/markdown/marked.js', condition: function() { return !!document.querySelector('[data-markdown]' ); } },
+          //{ src:'https://solidpayorg.github.io/reveal.js/plugin/markdown/markdown.js', condition: function() { return !!document.querySelector('[data-markdown]' ); } },
+		  //{ src:'https://solidpayorg.github.io/reveal.js/plugin/math/math.js', async: true }
 		]
     	
     });

diff --git a/apps/index.mm b/apps/index.mm
@@ -66,19 +66,6 @@
 </map_styles>
 </hook>
 <hook NAME="AutomaticEdgeColor" COUNTER="26" RULE="ON_BRANCH_CREATION"/>
-<node POSITION="right" ID="ID_1071946324" CREATED="1578130074773" MODIFIED="1578130074779" LINK="https://solidapps.org/"><richcontent TYPE="NODE">
-
-<html>
-  <head>
-    
-  </head>
-  <body>
-    <a http-equiv="content-type" content="text/html; charset=utf-8" href="https://solidapps.org/">https://solidapps.org/</a> 
-  </body>
-</html>
-</richcontent>
-<edge COLOR="#7c007c"/>
-</node>
 <node POSITION="left" ID="ID_1285619201" CREATED="1578130094329" MODIFIED="1578130094334" LINK="http://webid.im/"><richcontent TYPE="NODE">
 
 <html>
@@ -94,19 +81,6 @@
 <node TEXT="github" ID="ID_1449615970" CREATED="1578215609149" MODIFIED="1578215613495" LINK="https://github.com/melvincarvalho/webid.im"/>
 <node TEXT="FLOSS Messengers" ID="ID_1381129542" CREATED="1578215615257" MODIFIED="1578215629820" LINK="https://github.com/melvincarvalho/webid.im/wiki/FLOSS-Messengers"/>
 </node>
-<node POSITION="right" ID="ID_1009568646" CREATED="1578425918655" MODIFIED="1578497874089" LINK="https://scenaristeur.github.io/compagent-tuto/"><richcontent TYPE="NODE">
-
-<html>
-  <head>
-    
-  </head>
-  <body>
-    <a http-equiv="content-type" content="text/html; charset=utf-8" href="https://scenaristeur.github.io/compagent-tuto/">https://scenaristeur.github.io/compagent-tuto/</a> 
-  </body>
-</html>
-</richcontent>
-<edge COLOR="#7c7c00"/>
-</node>
 <node POSITION="left" ID="ID_1493791154" CREATED="1578497887712" MODIFIED="1578497887719" LINK="https://github.com/Darcy-Social/ibex"><richcontent TYPE="NODE">
 
 <html>
@@ -120,14 +94,37 @@
 </richcontent>
 <edge COLOR="#ff0000"/>
 </node>
-<node TEXT="https://github.com/jeff-zucker/solid-rest" POSITION="right" ID="ID_1316215688" CREATED="1579166716602" MODIFIED="1579166716612" LINK="https://github.com/jeff-zucker/solid-rest">
-<edge COLOR="#0000ff"/>
-</node>
 <node TEXT="solid-shell" POSITION="right" ID="ID_76390485" CREATED="1579341722271" MODIFIED="1579341731939" LINK="solid-shell.mm">
 <edge COLOR="#00ff00"/>
 </node>
 <node TEXT="solid-rest" POSITION="right" ID="ID_849083085" CREATED="1579166696671" MODIFIED="1579382559368" LINK="https://github.com/jeff-zucker/solid-rest">
 <edge COLOR="#ff00ff"/>
+</node>
+<node POSITION="right" ID="ID_1009568646" CREATED="1578425918655" MODIFIED="1578497874089" LINK="https://scenaristeur.github.io/compagent-tuto/"><richcontent TYPE="NODE">
+
+<html>
+  <head>
+    
+  </head>
+  <body>
+    <a http-equiv="content-type" content="text/html; charset=utf-8" href="https://scenaristeur.github.io/compagent-tuto/">https://scenaristeur.github.io/compagent-tuto/</a> 
+  </body>
+</html>
+</richcontent>
+<edge COLOR="#7c7c00"/>
+</node>
+<node POSITION="right" ID="ID_1071946324" CREATED="1578130074773" MODIFIED="1578130074779" LINK="https://solidapps.org/"><richcontent TYPE="NODE">
+
+<html>
+  <head>
+    
+  </head>
+  <body>
+    <a http-equiv="content-type" content="text/html; charset=utf-8" href="https://solidapps.org/">https://solidapps.org/</a> 
+  </body>
+</html>
+</richcontent>
+<edge COLOR="#7c007c"/>
 </node>
 </node>
 </map>

diff --git a/index.mm b/index.mm
@@ -1,6 +1,6 @@
 <map version="freeplane 1.7.0">
 <!--To view this file, download free mind mapping software Freeplane from http://freeplane.sourceforge.net -->
-<node TEXT="solid" FOLDED="false" ID="ID_237352286" CREATED="1570576809840" MODIFIED="1578130064776" ICON_SIZE="16.0 pt" LINK="../tech/index.mm" STYLE="oval">
+<node TEXT="solid" FOLDED="false" ID="ID_237352286" CREATED="1570576809840" MODIFIED="1581677143233" ICON_SIZE="16.0 pt" LINK="../tech/index.mm" STYLE="oval">
 <icon BUILTIN="wizard"/>
 <font SIZE="18"/>
 <hook NAME="MapStyle">
@@ -72,7 +72,7 @@
 <edge STYLE="bezier" COLOR="#00ff00" WIDTH="thin"/>
 </node>
 </node>
-<node TEXT="spec" POSITION="right" ID="ID_45632273" CREATED="1574934349622" MODIFIED="1574934358562" LINK="spec/index.mm">
+<node TEXT="spec" POSITION="right" ID="ID_45632273" CREATED="1574934349622" MODIFIED="1581677143222" LINK="spec/index.mm" HGAP_QUANTITY="25.999999642372142 pt" VSHIFT_QUANTITY="14.999999552965178 pt">
 <edge STYLE="bezier" COLOR="#00007c" WIDTH="thin"/>
 <font SIZE="11" BOLD="true"/>
 </node>
